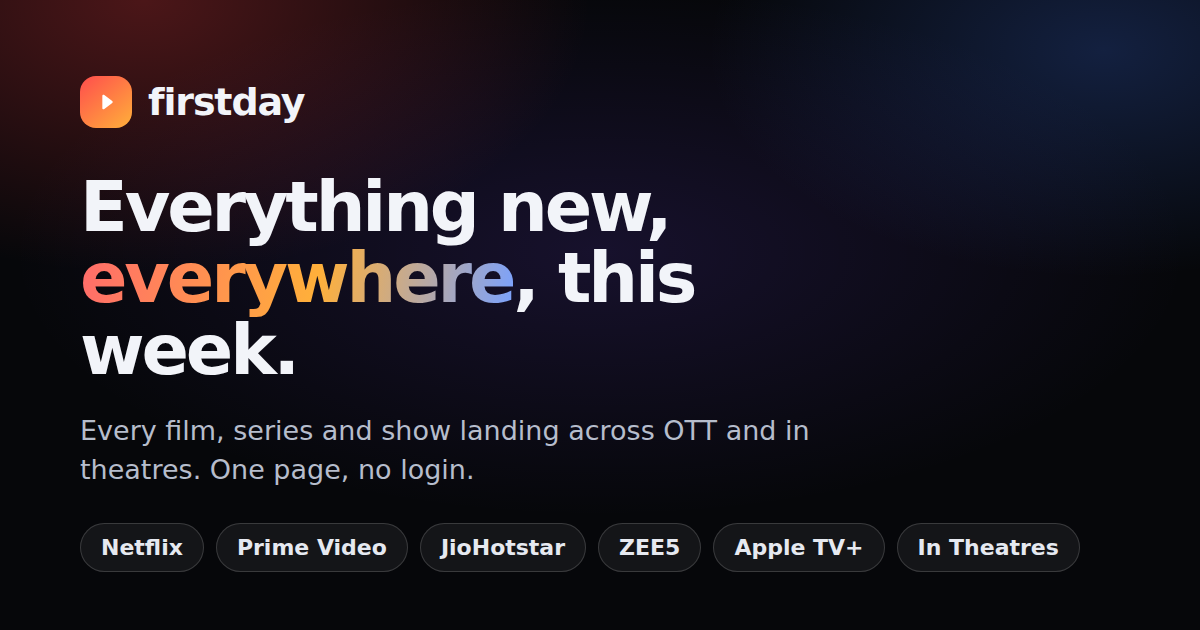
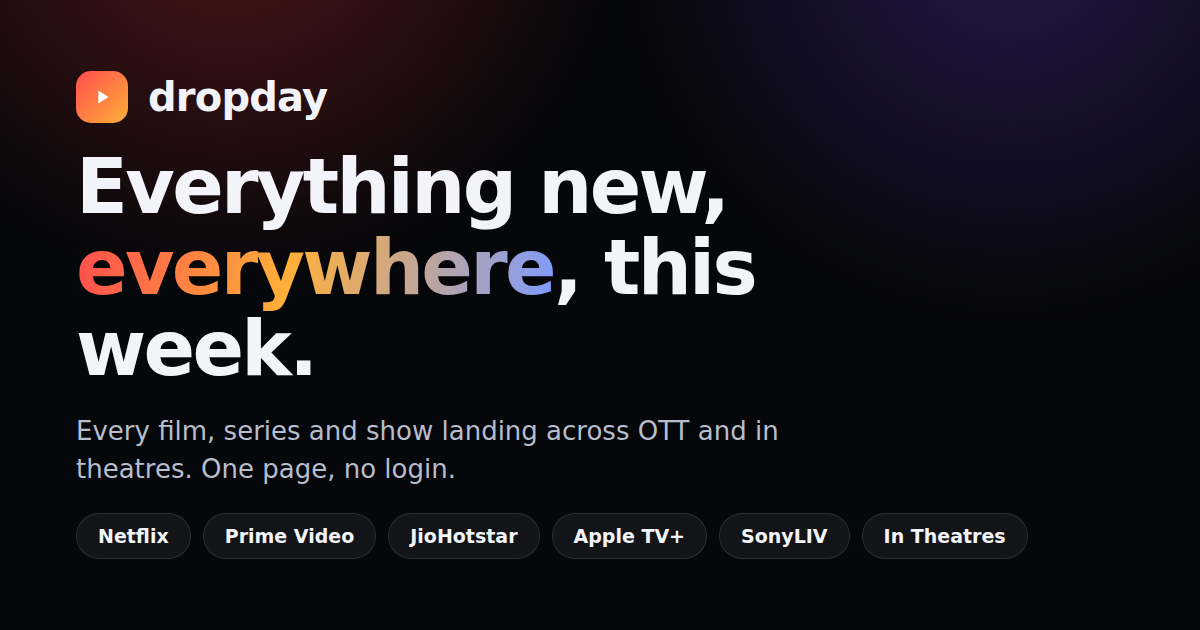
feat: rename back to dropday, and single-source the name
The live site serves from dropday.newreleases.workers.dev, so the brand
now matches the URL rather than fighting it. wrangler.jsonc names the
Worker dropday again, which means the canonical URL, og:url and sitemap —
all derived from that name — point at the host that actually serves the
site instead of one that 404s.

The name is no longer scattered. src/data/brand.ts holds it once; the
header, footer, share card, calendar export and share filename read it
from there, and scripts/brand.mjs parses the same file so the SEO pass,
the single-file build and the OG card cannot disagree with the page. The
build also rewrites the manifest name from it, since that is a static file
in public/ and was the last place a rename could be left behind.

That mattered: public/og.png was a hand-made asset and still said
"firstday", so every WhatsApp and Slack preview would have carried the
wrong brand with nothing in the build to catch it. It is now generated by
scripts/build-og.mjs (npm run og) from the brand constants and the
platform registry. Playwright stays out of package.json on purpose — it
pulls down a browser, and this runs about once a year, so neither CI nor
the Cloudflare build should pay for it on every install.

Anyone who set their lineup during the firstday window keeps it: prefs.ts
still reads the old storage key.

Two fixes found while verifying the rename:

  - App.tsx read localStorage without a try/catch in the view-state
[…]

diff --git a/src/App.tsx b/src/App.tsx
@@ -13,6 +13,7 @@ import {
   IconPlay,
   IconSearch,
 } from './components/icons';
+import { BRAND, TAGLINE } from './data/brand';
 import { PLATFORMS, REGIONS } from './data/platforms';
 import { loadFeed, weekById } from './lib/feed';
 import {
@@ -66,12 +67,18 @@ export default function App() {
 
   // Board is the default: the whole week at a glance, the way the printed
   // calendars do it. The poster grid stays available for browsing.
-  const [view, setView] = useState<'board' | 'grid'>(
-    () => (localStorage.getItem('firstday.view') === 'grid' ? 'grid' : 'board'),
-  );
+  const [view, setView] = useState<'board' | 'grid'>(() => {
+    try {
+      return localStorage.getItem('dropday.view') === 'grid' ? 'grid' : 'board';
+    } catch {
+      // Blocked site data throws on read, not just on write — and unguarded
+      // here it would take the whole page down rather than lose a preference.
+      return 'board';
+    }
+  });
   useEffect(() => {
     try {
-      localStorage.setItem('firstday.view', view);
+      localStorage.setItem('dropday.view', view);
     } catch {
       /* Storage is a convenience here, never a requirement. */
     }
@@ -139,7 +146,7 @@ export default function App() {
   }, []);
 
   const addWeeklyReminder = useCallback(() => {
-    download(weeklyReminder(window.location.origin), 'firstday-friday.ics');
+    download(weeklyReminder(window.location.origin), `${BRAND}-friday.ics`);
   }, []);
 
   const updatePrefs = useCallback((next: Partial<Prefs>) => {
@@ -264,7 +271,12 @@ export default function App() {
             <span className="logo__mark">
               <IconPlay />
             </span>
-            firstday<span className="logo__dot">.</span>
+            {/* Wordmark and dot share one flex item, or the .logo gap pushes
+                the dot away from the name it belongs to. */}
+            <span>
+              {BRAND}
+              <span className="logo__dot">.</span>
+            </span>
           </span>
           <div className="weekbar__region">
             <label className="region">
@@ -524,7 +536,9 @@ export default function App() {
 
         <footer className="footer">
           <div className="footer__stack">
-            <span>firstday — every new release, every platform, one page.</span>
+            <span>
+              {BRAND} — {TAGLINE}
+            </span>
             <button className="footer__link" onClick={addWeeklyReminder}>
               <IconCalendar />
               Remind me every Friday

diff --git a/src/lib/shareCard.ts b/src/lib/shareCard.ts
@@ -1,3 +1,4 @@
+import { BRAND, TAGLINE } from '../data/brand';
 import { BRAND_MARKS } from '../data/brand-marks';
 import { inkOn, platform } from '../data/platforms';
 import { metaLine } from './format';
@@ -7,7 +8,7 @@ import type { Release } from '../types';
 /**
  * Renders the current week as a shareable PNG.
  *
- * The thing firstday competes with is an image people forward on WhatsApp. Rather
+ * The thing dropday competes with is an image people forward on WhatsApp. Rather
  * than fight that behaviour, this feeds it: export exactly what's on screen —
  * filters and all — as a card sized for a chat thread, with the URL on it. Every
  * forward is then a link back, which makes sharing the growth loop rather than a
@@ -198,7 +199,7 @@ export async function renderShareCard(opts: Options): Promise<Blob> {
 
   ctx.fillStyle = '#f2f4f9';
   ctx.font = font(30, 700);
-  ctx.fillText('firstday', PAD + 54, y + 29);
+  ctx.fillText(BRAND, PAD + 54, y + 29);
 
   y += 92;
   ctx.fillStyle = '#7d8494';
@@ -295,7 +296,7 @@ export async function renderShareCard(opts: Options): Promise<Blob> {
   ctx.fillStyle = '#7d8494';
   ctx.font = font(18, 500);
   ctx.textAlign = 'right';
-  ctx.fillText('Every new release, every platform, one page.', W - PAD, fy + 52);
+  ctx.fillText(TAGLINE[0].toUpperCase() + TAGLINE.slice(1), W - PAD, fy + 52);
   ctx.textAlign = 'left';
 
   return new Promise((resolve, reject) => {

diff --git a/index.html b/index.html
@@ -3,7 +3,7 @@
   <head>
     <meta charset="UTF-8" />
     <meta name="viewport" content="width=device-width, initial-scale=1, viewport-fit=cover" />
-    <title>firstday — everything new, everywhere, this week</title>
+    <title>dropday — everything new, everywhere, this week</title>
     <meta
       name="description"
       content="Every film, series and show landing this week across Netflix, Prime Video, JioHotstar, Apple TV+, theatres and more. One page. No login."
@@ -13,9 +13,9 @@
     <link rel="apple-touch-icon" sizes="180x180" href="apple-touch-icon.png" />
     <meta name="apple-mobile-web-app-capable" content="yes" />
     <meta name="apple-mobile-web-app-status-bar-style" content="black-translucent" />
-    <meta name="apple-mobile-web-app-title" content="firstday" />
+    <meta name="apple-mobile-web-app-title" content="dropday" />
     <meta property="og:type" content="website" />
-    <meta property="og:title" content="firstday — everything new, everywhere, this week" />
+    <meta property="og:title" content="dropday — everything new, everywhere, this week" />
     <meta
       property="og:description"
       content="One page for every new release across every streaming platform and theatres."

diff --git a/src/lib/reminder.ts b/src/lib/reminder.ts
@@ -1,7 +1,7 @@
 /**
  * A recurring Friday reminder, as a calendar file.
  *
- * firstday lives or dies on weekly return, which normally means push — and push
+ * dropday lives or dies on weekly return, which normally means push — and push
  * means a service worker plus a server holding subscriptions and VAPID keys.
  * That's a backend, and this site is deliberately a static file.
  *
@@ -10,6 +10,8 @@
  * and survives them never opening the site again. It is also trivially
  * cancellable, which a push subscription is not.
  */
+
+import { BRAND } from '../data/brand';
 
 const WEEKDAY = ['SU', 'MO', 'TU', 'WE', 'TH', 'FR', 'SA'];
 
@@ -45,11 +47,11 @@ export function weeklyReminder(siteUrl: string): Blob {
   const lines = [
     'BEGIN:VCALENDAR',
     'VERSION:2.0',
-    'PRODID:-//firstday//weekly release reminder//EN',
+    `PRODID:-//${BRAND}//weekly release reminder//EN`,
     'CALSCALE:GREGORIAN',
     'METHOD:PUBLISH',
     'BEGIN:VEVENT',
-    `UID:firstday-weekly-${start.getTime()}@firstday`,
+    `UID:${BRAND}-weekly-${start.getTime()}@${BRAND}`,
     `DTSTAMP:${stamp(now)}`,
     `DTSTART:${stamp(start)}`,
     `DTEND:${stamp(end)}`,

diff --git a/src/data/brand.ts b/src/data/brand.ts
@@ -1,0 +1,19 @@
+/**
+ * The brand, in one place.
+ *
+ * The site has been renamed twice, and each time the name was scattered across
+ * the header, the share card, the calendar file, the manifest, the OG image and
+ * the SEO pass — so each time something was missed and shipped stale. The build
+ * scripts read these same values out of this file (scripts/brand.mjs) and
+ * rewrite the shipped title and manifest from them, so a rename means editing
+ * this file, then `npm run og` to re-render the social card.
+ *
+ * index.html keeps a literal title for `npm run dev` only; the build overwrites
+ * it, so it never reaches a visitor.
+ */
+
+export const BRAND = 'dropday';
+
+export const TAGLINE = 'every new release, every platform, one page.';
+
+export const HEADLINE = 'everything new, everywhere, this week';

diff --git a/src/components/ShareWeek.tsx b/src/components/ShareWeek.tsx
@@ -1,5 +1,6 @@
 import { useState } from 'react';
 import { IconCheck, IconShare } from './icons';
+import { BRAND } from '../data/brand';
 import { KIND_LABEL, languageName, platform } from '../data/platforms';
 import { download } from '../lib/download';
 import { renderShareCard } from '../lib/shareCard';
@@ -47,7 +48,7 @@ export function ShareWeek({ releases, filters }: Props) {
         filterNote: describe(filters),
         siteUrl: window.location.origin,
       });
-      const file = new File([blob], `firstday-${filters.weekId}.png`, { type: 'image/png' });
+      const file = new File([blob], `${BRAND}-${filters.weekId}.png`, { type: 'image/png' });
       const text = `What's new ${formatWeekRange(filters.weekId)} — ${window.location.href}`;
 
       if (navigator.canShare?.({ files: [file] })) {

diff --git a/src/lib/prefs.ts b/src/lib/prefs.ts
@@ -4,14 +4,14 @@
  * a personal feed, and nothing leaves the browser.
  */
 
-const KEY = 'firstday.prefs.v1';
+const KEY = 'dropday.prefs.v1';
 
 /**
- * The site was called dropday before this. Anyone who had already picked their
- * platforms would otherwise silently lose them on the rename and be shown the
- * onboarding card again, which reads as the app forgetting them.
+ * The site briefly shipped as firstday. Anyone who picked their platforms during
+ * that window would otherwise silently lose them and be shown the onboarding
+ * card again, which reads as the app forgetting them. Cheap to keep reading.
  */
-const LEGACY_KEY = 'dropday.prefs.v1';
+const LEGACY_KEY = 'firstday.prefs.v1';
 
 export interface Prefs {
   platforms: string[];

diff --git a/src/lib/feed.ts b/src/lib/feed.ts
@@ -8,7 +8,7 @@ import type { ReleaseFeed, ReleaseWeek } from '../types';
 export async function loadFeed(signal?: AbortSignal): Promise<ReleaseFeed> {
   // Single-file builds embed the feed in the page so the whole app is one
   // self-contained HTML file that works from a file:// URL or a paste-in host.
-  const embedded = document.getElementById('firstday-feed')?.textContent;
+  const embedded = document.getElementById('release-feed')?.textContent;
   if (embedded) return normalise(JSON.parse(embedded) as ReleaseFeed);
 
   const url = new URL('data/releases.json', document.baseURI).href;

diff --git a/src/styles/app.css b/src/styles/app.css
@@ -1,5 +1,5 @@
 /* ============================================================================
-   Firstday design system
+   Dropday design system
    Dark-only on purpose: this is a lean-back, cinematic surface and every
    platform it aggregates is dark. One well-tuned theme beats two mediocre ones.
    ========================================================================= */

diff --git a/README.md b/README.md
@@ -1,4 +1,4 @@
-# firstday
+# dropday
 
 **Everything new, everywhere, this week.** One page that shows every film, series,
 documentary and theatrical release landing across Netflix, Prime Video, JioHotstar,
@@ -32,7 +32,7 @@ BASE_PATH=/ott/ npm run build
 
 Connecting the repo in the Cloudflare dashboard creates a **Workers** project
 (new projects no longer land on Pages), which deploys with `npx wrangler deploy`
-and serves at `firstday.<your-subdomain>.workers.dev`.
+and serves at `dropday.<your-subdomain>.workers.dev`.
 
 `wrangler.jsonc` in the repo root drives that deploy. It is deliberately
 **assets-only** — no Worker script, nothing running at request time — because the
@@ -85,7 +85,7 @@ string, so `/` is the only route the app ever serves.
 ### One self-contained file
 
 ```bash
-npm run build:single      # → dist/firstday.html
+npm run build:single      # → dist/dropday.html
 ```
 
 Everything — styles, script, and the release feed — inlined into a single HTML

diff --git a/PRODUCT.md b/PRODUCT.md
@@ -1,4 +1,4 @@
-# firstday — product brief
+# dropday — product brief
 
 ## The problem
 
